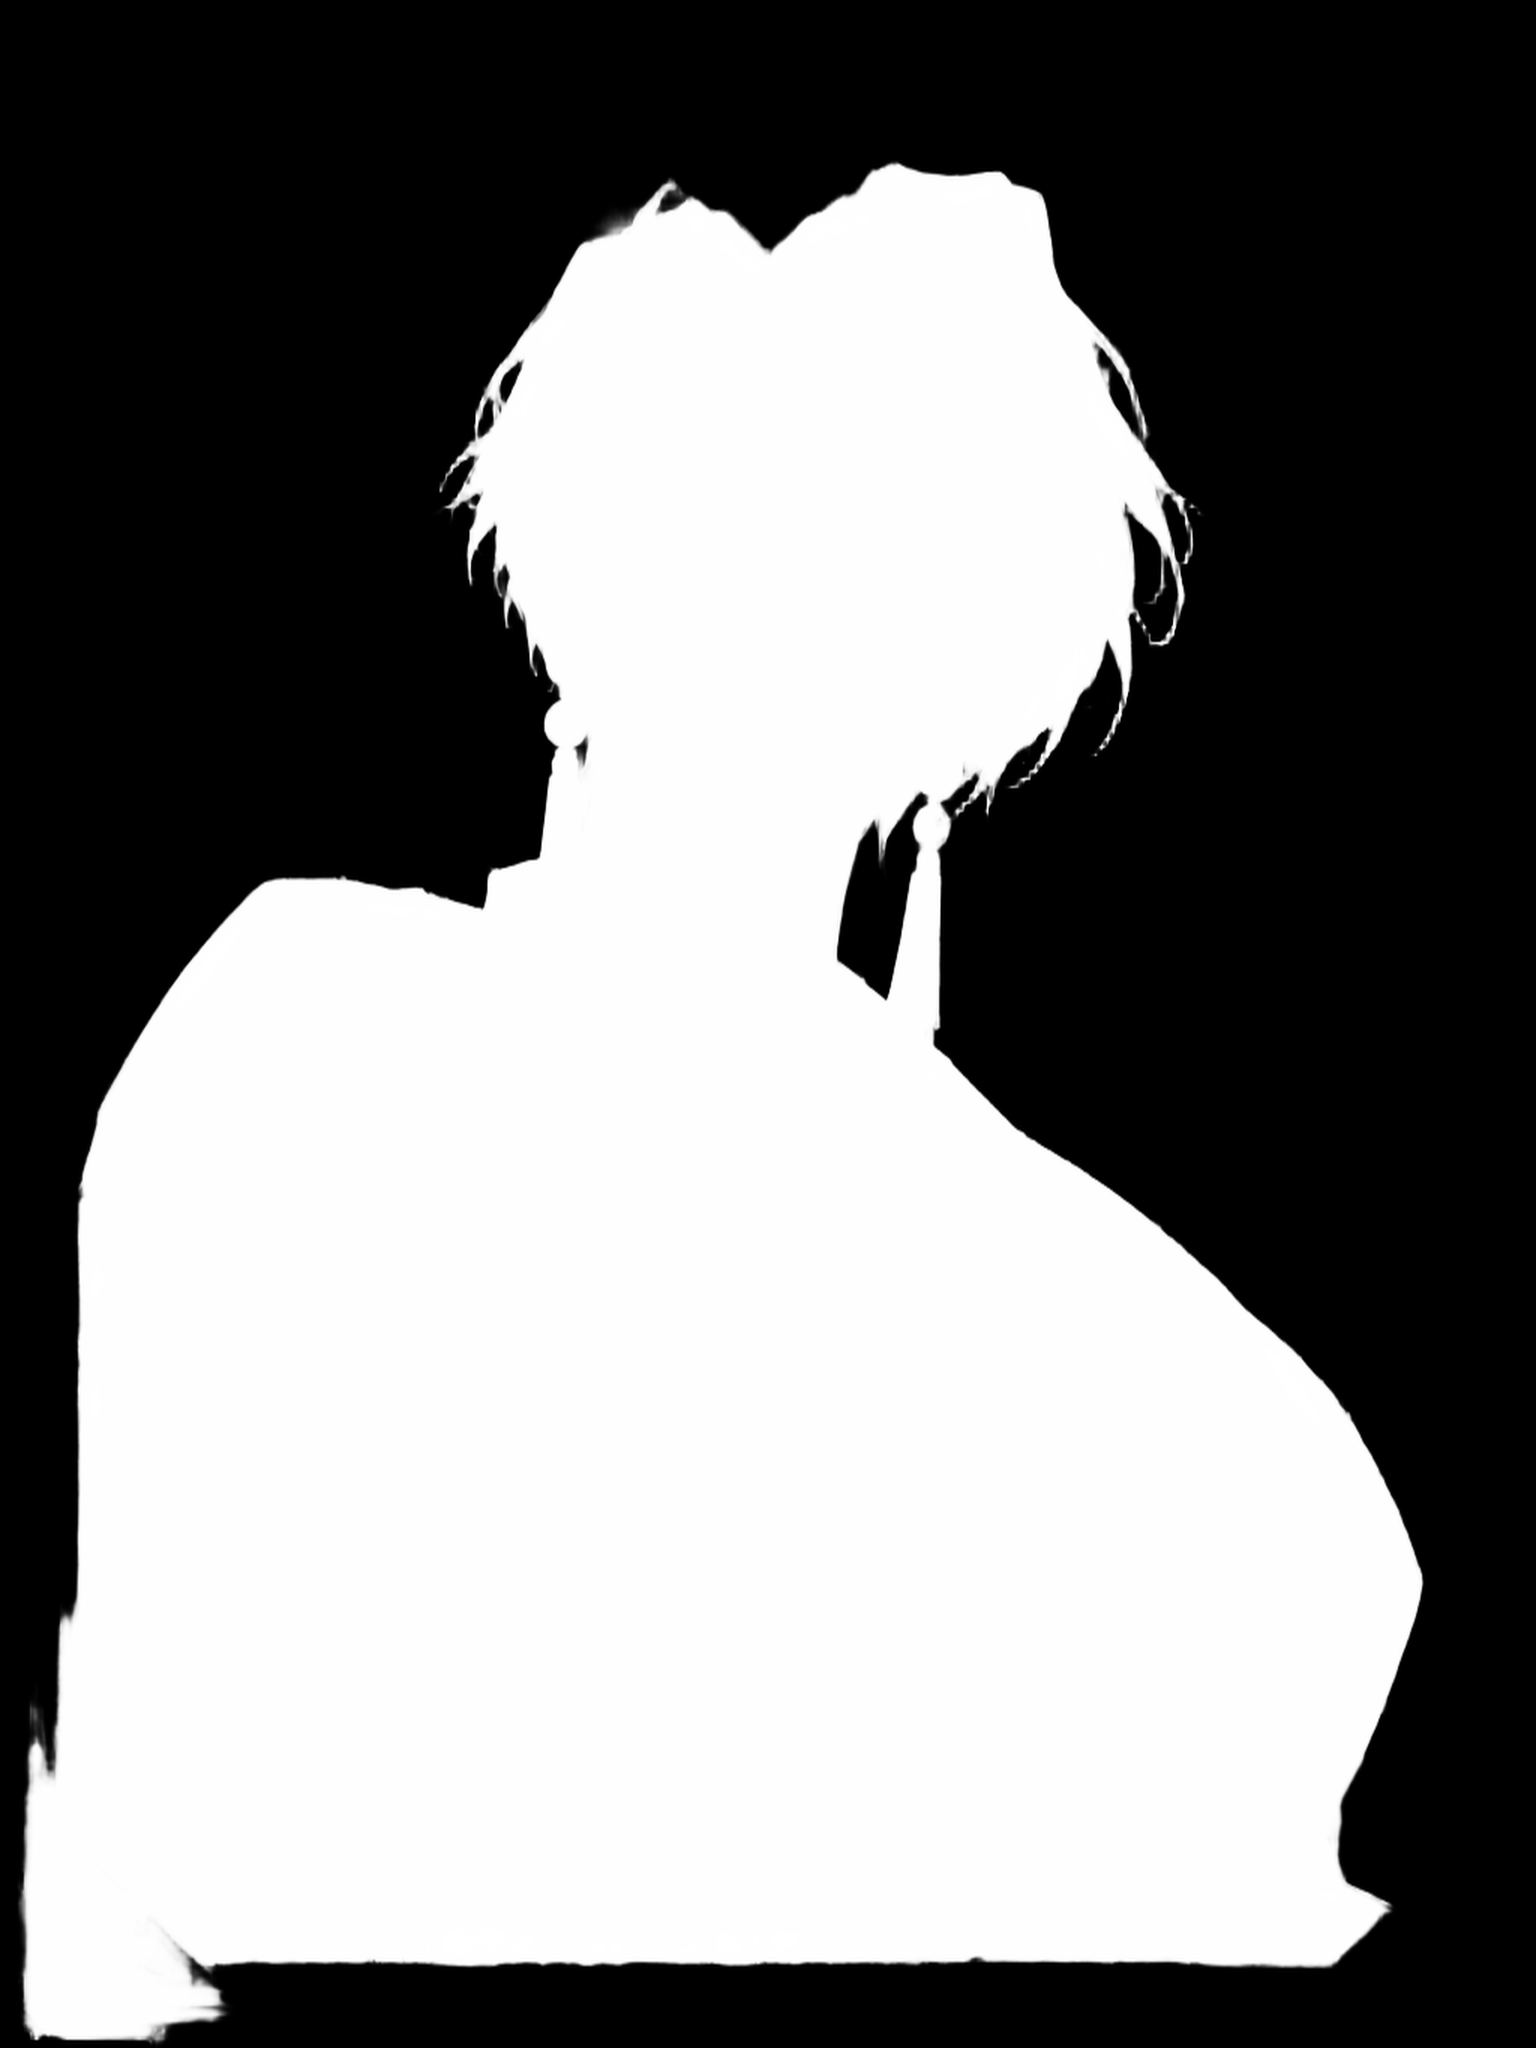
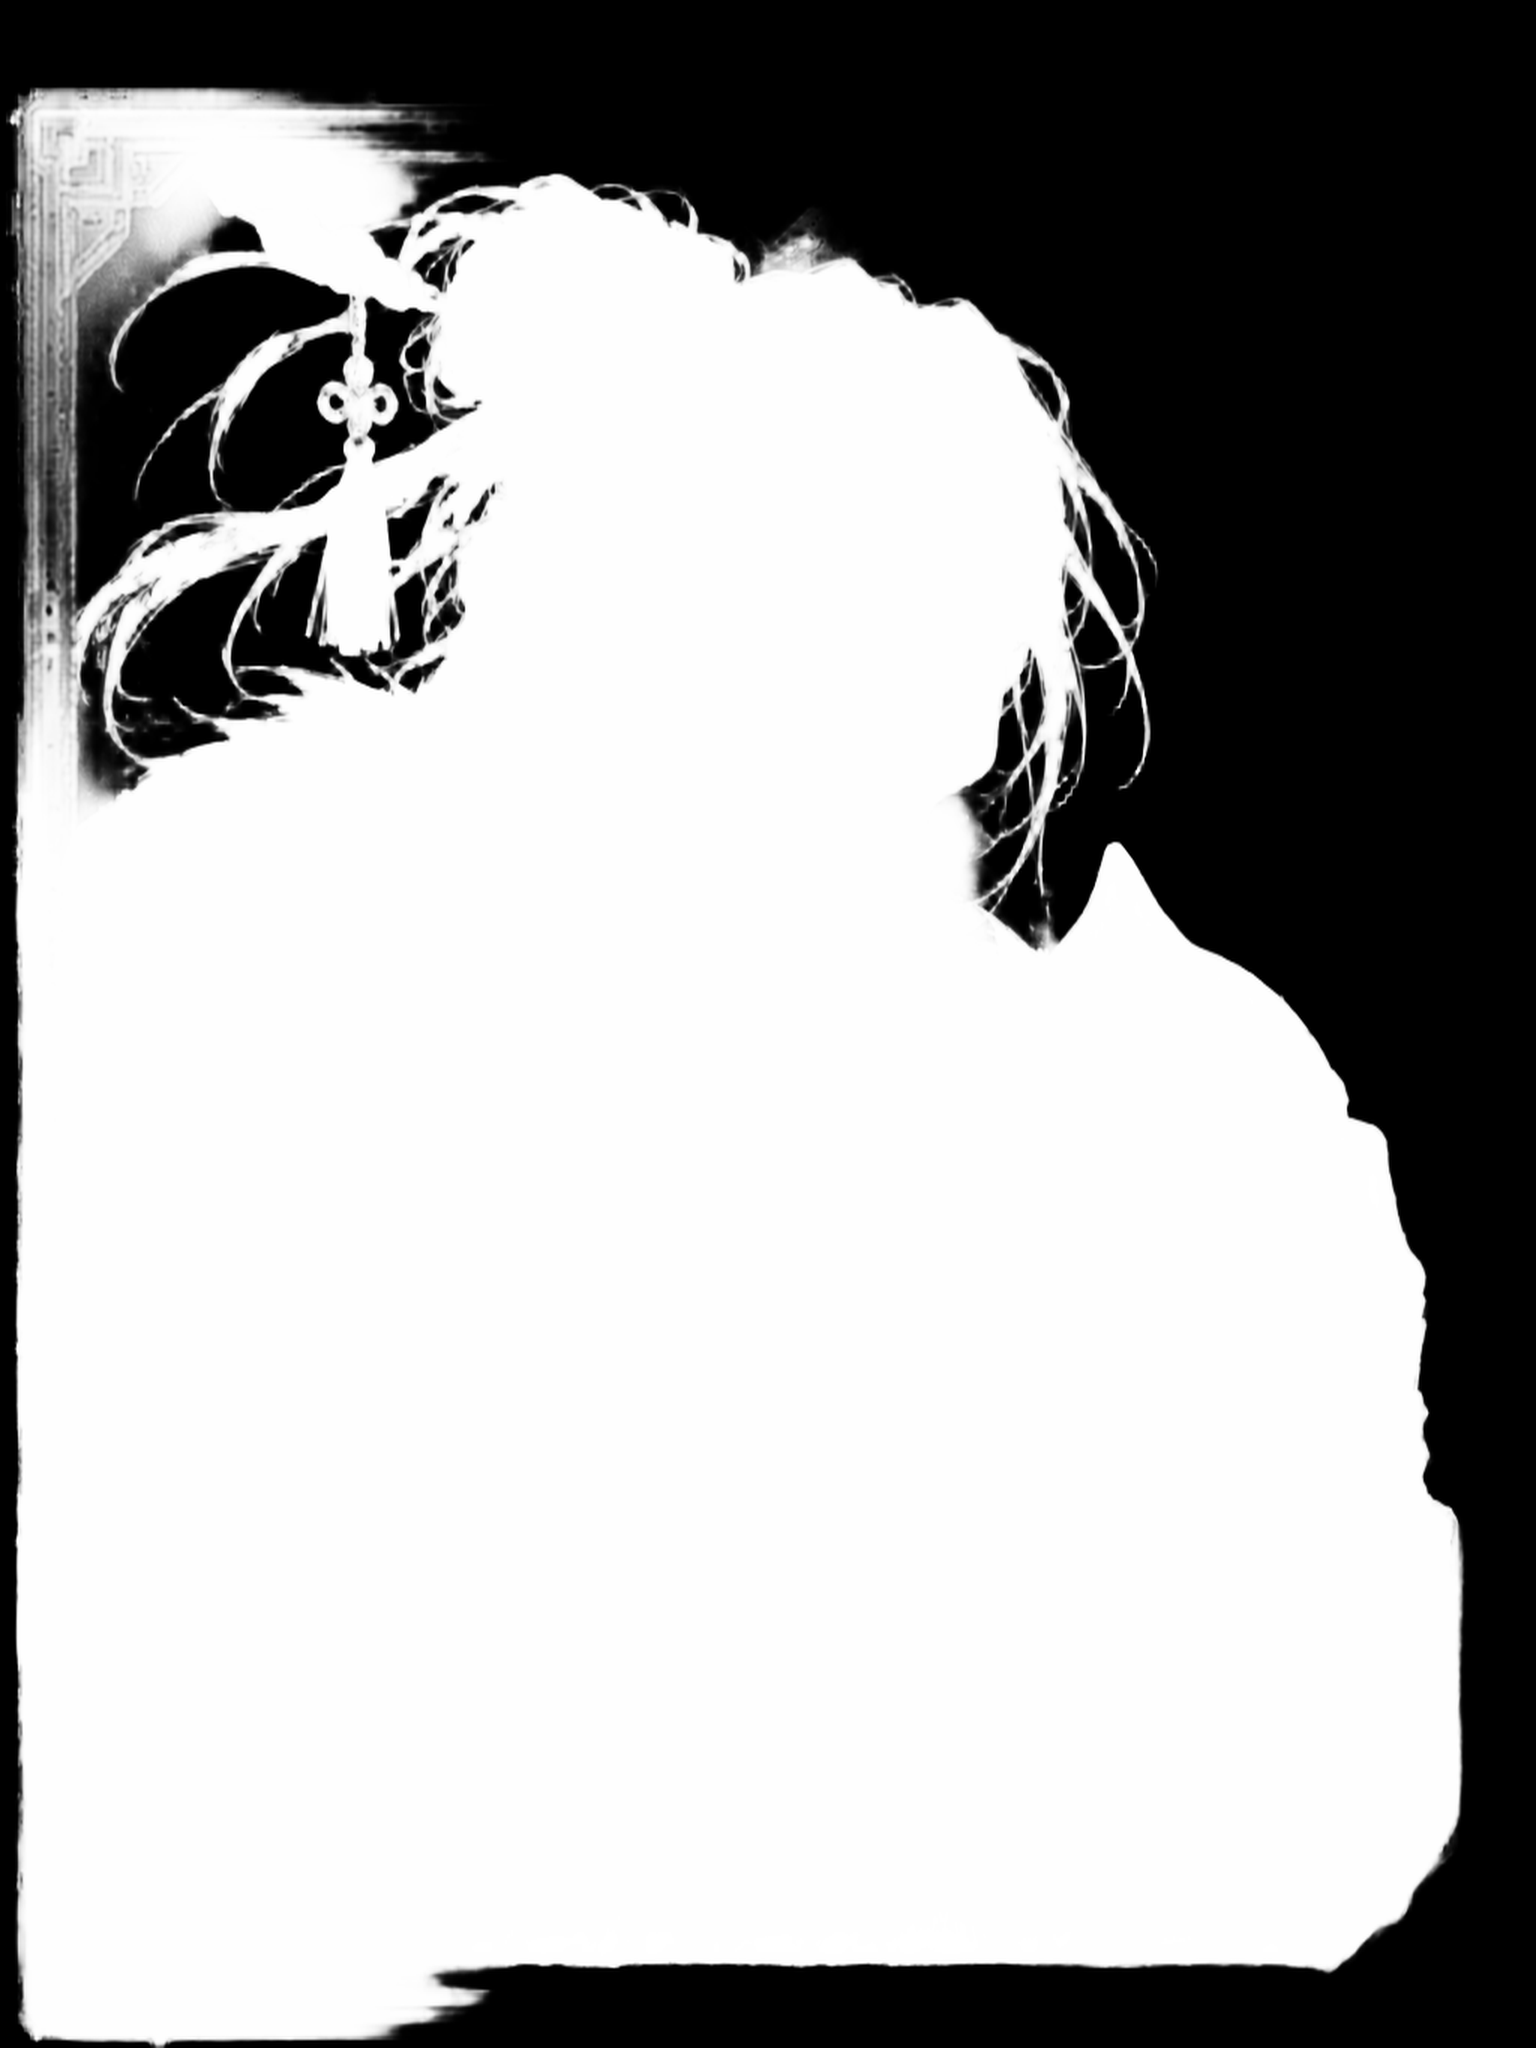
Both films: new Perma-Bull and Cold Blooded paintings (assets/cast/source/), end card line NEXT CANDLE · YOUR CALL
Claude-Session: https://claude.ai/code/session_0165shiYV7fRQGdZGyrUMowg

Changed region(s): [[0.0, 0.0312, 0.9688, 1.0], [0.0938, 0.9375, 0.3125, 1.0], [0.6875, 0.9375, 0.75, 0.9688]]

diff --git a/film-cast/src/scenes/end.js b/film-cast/src/scenes/end.js
@@ -33,6 +33,6 @@ export function endShot(t, R, P) {
   const r1 = riseK(dt - 0.42), r2 = riseK(dt - 0.84), r3 = riseK(dt - 1.05);
   text(b, 'Which one are you?', VW / 2, cy + (R.TALL ? 250 : 235) + r1.y, { font: F.dela(R.TALL ? 74 : 84), color: PAPER.ink, align: 'center', alpha: r1.a });
   text(b, 'yochigg.xyz', VW / 2, cy + (R.TALL ? 380 : 365) + r2.y, { font: F.mono(R.TALL ? 70 : 76, 800), color: PAPER.redText, align: 'center', alpha: r2.a });
-  label(b, 'TRY A ROUND · NO WALLET NEEDED', VW / 2, cy + (R.TALL ? 445 : 430) + r3.y, { size: 26, color: PAPER.muted, align: 'center', alpha: r3.a });
+  label(b, 'NEXT CANDLE · YOUR CALL', VW / 2, cy + (R.TALL ? 455 : 442) + r3.y, { size: 36, color: PAPER.ink, align: 'center', alpha: r3.a });
   b.restore();
 }

diff --git a/film-flagship/src/scenes/end.js b/film-flagship/src/scenes/end.js
@@ -33,6 +33,6 @@ export function endShot(t, R, P) {
   const r1 = riseK(dt - 0.42), r2 = riseK(dt - 0.84), r3 = riseK(dt - 1.05);
   text(b, 'Which one are you?', VW / 2, cy + (R.TALL ? 250 : 235) + r1.y, { font: F.dela(R.TALL ? 74 : 84), color: PAPER.ink, align: 'center', alpha: r1.a });
   text(b, 'yochigg.xyz', VW / 2, cy + (R.TALL ? 380 : 365) + r2.y, { font: F.mono(R.TALL ? 70 : 76, 800), color: PAPER.redText, align: 'center', alpha: r2.a });
-  label(b, 'TRY A ROUND · NO WALLET NEEDED', VW / 2, cy + (R.TALL ? 445 : 430) + r3.y, { size: 26, color: PAPER.muted, align: 'center', alpha: r3.a });
+  label(b, 'NEXT CANDLE · YOUR CALL', VW / 2, cy + (R.TALL ? 455 : 442) + r3.y, { size: 36, color: PAPER.ink, align: 'center', alpha: r3.a });
   b.restore();
 }

diff --git a/film-flagship/src/scenes/signature.js b/film-flagship/src/scenes/signature.js
@@ -157,7 +157,7 @@ export function signatureShot(t, R, P) {
     const r1 = riseK(t - M.LOCKUP - 0.35), r2 = riseK(t - M.LOCKUP - 0.75), r3 = riseK(t - M.LOCKUP - 1.0);
     text(b, 'Call it right. Take the pool.', VW / 2, 580 + r1.y, { font: F.dela(86), color: PAPER.ink, align: 'center', alpha: r1.a });
     text(b, 'yochigg.xyz', VW / 2, 730 + r2.y, { font: F.mono(84, 800), color: PAPER.redText, align: 'center', alpha: r2.a });
-    label(b, 'TRY A ROUND · NO WALLET NEEDED', VW / 2, 800 + r3.y, { size: 28, color: PAPER.muted, align: 'center', alpha: r3.a });
+    label(b, 'NEXT CANDLE · YOUR CALL', VW / 2, 812 + r3.y, { size: 36, color: PAPER.ink, align: 'center', alpha: r3.a });
   }
   b.restore();
 }

diff --git a/film-cast/tools/cast_prep.py b/film-cast/tools/cast_prep.py
@@ -18,6 +18,10 @@ from PIL import Image
 here = os.path.dirname(os.path.abspath(__file__))
 root = os.path.join(here, '..')
 src = os.path.join(root, '..', 'asset-pack', 'sumi', 'avatars', 'cards')
+newer = os.path.join(root, 'assets', 'cast', 'source')  # newer paintings that replace the kit's (same card format)
+def card_path(n):
+    p = os.path.join(newer, n + '.webp')
+    return p if os.path.exists(p) else os.path.join(src, n + '.webp')
 raw = os.path.join(root, 'assets', 'cast', 'raw')
 out = os.path.join(root, 'assets', 'cast')
 ov_path = os.path.join(here, 'cast_overrides.json')
@@ -46,7 +50,7 @@ def pushpull(img, w):
     return est
 
 def prep(n):
-    card = np.array(Image.open(os.path.join(src, n + '.webp')).convert('RGB'))
+    card = np.array(Image.open(card_path(n)).convert('RGB'))
     m = np.array(Image.open(os.path.join(raw, n + '.png')).convert('L')).astype(np.float32) / 255
     o = OV.get(n, {})
     keep = np.zeros_like(m)
@@ -92,7 +96,7 @@ def prep(n):
     plate = cv2.resize(plate, (int(W * 0.75), int(H * 0.75)), interpolation=cv2.INTER_AREA)
     Image.fromarray(np.clip(plate, 0, 255).astype(np.uint8)).save(os.path.join(out, n + '-plate.webp'), quality=84, method=5)
     # the framed card, half size, for grids and the deal
-    Image.open(os.path.join(src, n + '.webp')).convert('RGBA').resize((768, 1024), Image.LANCZOS).save(
+    Image.open(card_path(n)).convert('RGBA').resize((768, 1024), Image.LANCZOS).save(
         os.path.join(out, n + '-card.webp'), quality=88, method=5)
     # head: centroid of the top band of the figure (overridable)
     band = A[fy0:fy0 + int((fy1 - fy0) * 0.2), fx0:fx1]

diff --git a/film-flagship/tools/cast_prep.py b/film-flagship/tools/cast_prep.py
@@ -18,6 +18,10 @@ from PIL import Image
 here = os.path.dirname(os.path.abspath(__file__))
 root = os.path.join(here, '..')
 src = os.path.join(root, '..', 'asset-pack', 'sumi', 'avatars', 'cards')
+newer = os.path.join(root, 'assets', 'cast', 'source')  # newer paintings that replace the kit's (same card format)
+def card_path(n):
+    p = os.path.join(newer, n + '.webp')
+    return p if os.path.exists(p) else os.path.join(src, n + '.webp')
 raw = os.path.join(root, 'assets', 'cast', 'raw')
 out = os.path.join(root, 'assets', 'cast')
 ov_path = os.path.join(here, 'cast_overrides.json')
@@ -46,7 +50,7 @@ def pushpull(img, w):
     return est
 
 def prep(n):
-    card = np.array(Image.open(os.path.join(src, n + '.webp')).convert('RGB'))
+    card = np.array(Image.open(card_path(n)).convert('RGB'))
     m = np.array(Image.open(os.path.join(raw, n + '.png')).convert('L')).astype(np.float32) / 255
     o = OV.get(n, {})
     keep = np.zeros_like(m)
@@ -92,7 +96,7 @@ def prep(n):
     plate = cv2.resize(plate, (int(W * 0.75), int(H * 0.75)), interpolation=cv2.INTER_AREA)
     Image.fromarray(np.clip(plate, 0, 255).astype(np.uint8)).save(os.path.join(out, n + '-plate.webp'), quality=84, method=5)
     # the framed card, half size, for grids and the deal
-    Image.open(os.path.join(src, n + '.webp')).convert('RGBA').resize((768, 1024), Image.LANCZOS).save(
+    Image.open(card_path(n)).convert('RGBA').resize((768, 1024), Image.LANCZOS).save(
         os.path.join(out, n + '-card.webp'), quality=88, method=5)
     # head: centroid of the top band of the figure (overridable)
     band = A[fy0:fy0 + int((fy1 - fy0) * 0.2), fx0:fx1]

diff --git a/film-cast/tools/cast_mask.py b/film-cast/tools/cast_mask.py
@@ -9,6 +9,9 @@ from PIL import Image
 here = os.path.dirname(os.path.abspath(__file__))
 n = sys.argv[1]
 src = os.path.join(here, '..', '..', 'asset-pack', 'sumi', 'avatars', 'cards', n + '.webp')
+# a newer painting in assets/cast/source/ (same 1536x2048 card format) replaces the kit's
+_new = os.path.join(here, '..', 'assets', 'cast', 'source', n + '.webp')
+if os.path.exists(_new): src = _new
 out = os.path.join(here, '..', 'assets', 'cast', 'raw')
 os.makedirs(out, exist_ok=True)
 dst = os.path.join(out, n + '.png')

diff --git a/film-flagship/tools/cast_mask.py b/film-flagship/tools/cast_mask.py
@@ -9,6 +9,9 @@ from PIL import Image
 here = os.path.dirname(os.path.abspath(__file__))
 n = sys.argv[1]
 src = os.path.join(here, '..', '..', 'asset-pack', 'sumi', 'avatars', 'cards', n + '.webp')
+# a newer painting in assets/cast/source/ (same 1536x2048 card format) replaces the kit's
+_new = os.path.join(here, '..', 'assets', 'cast', 'source', n + '.webp')
+if os.path.exists(_new): src = _new
 out = os.path.join(here, '..', 'assets', 'cast', 'raw')
 os.makedirs(out, exist_ok=True)
 dst = os.path.join(out, n + '.png')
